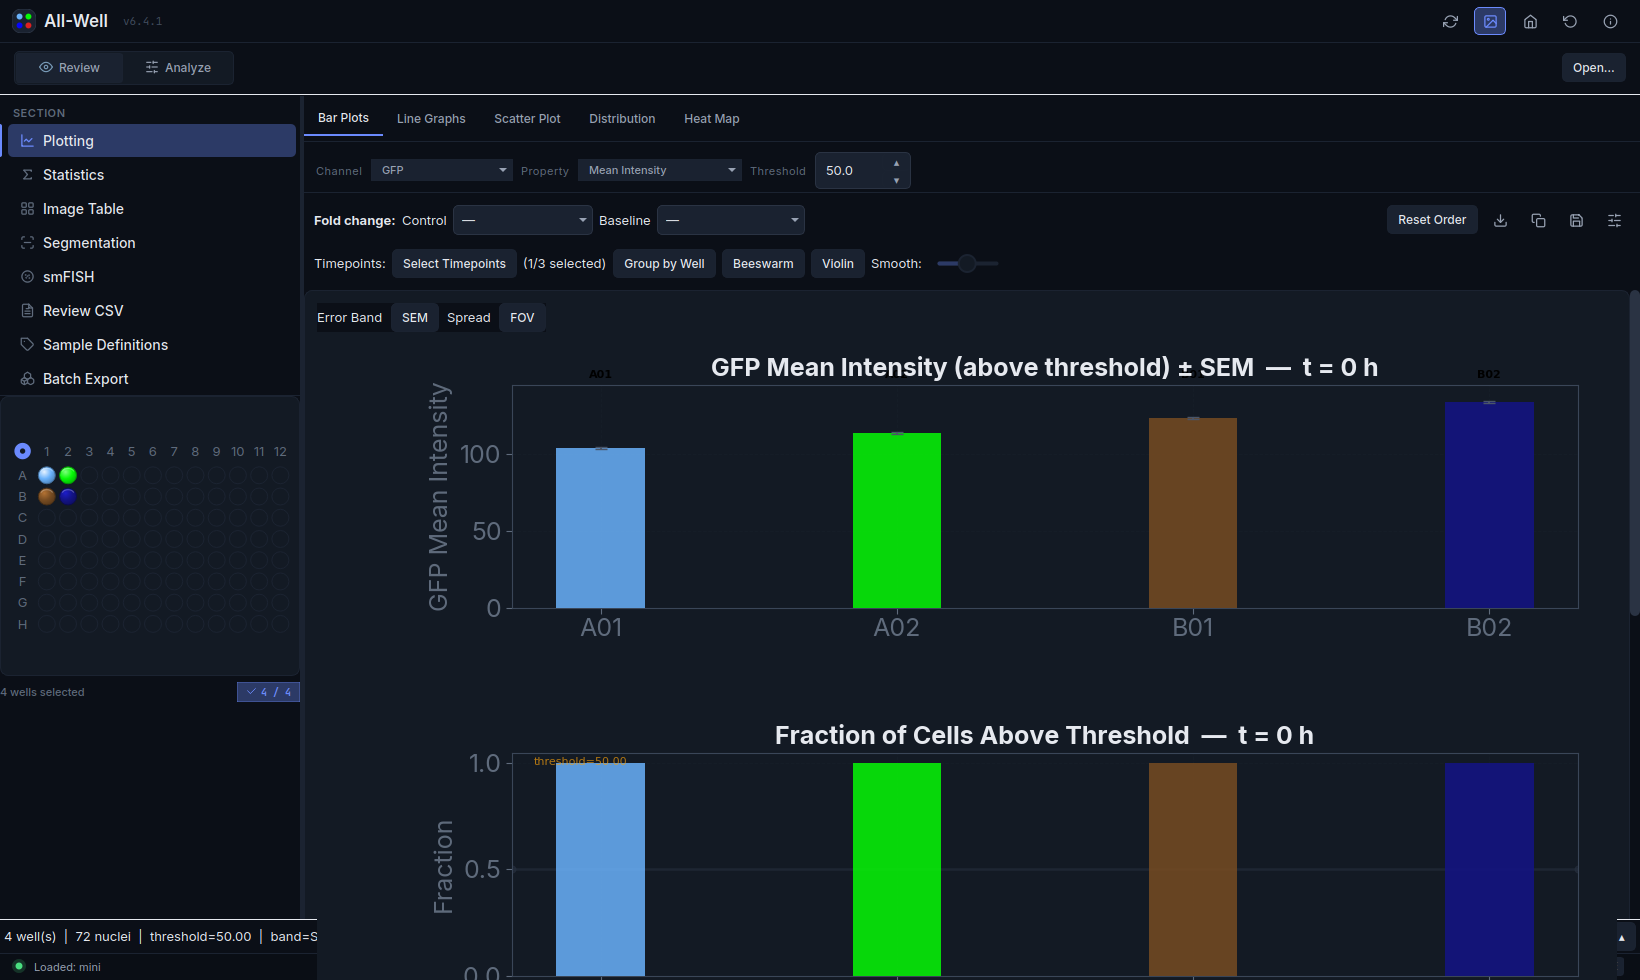
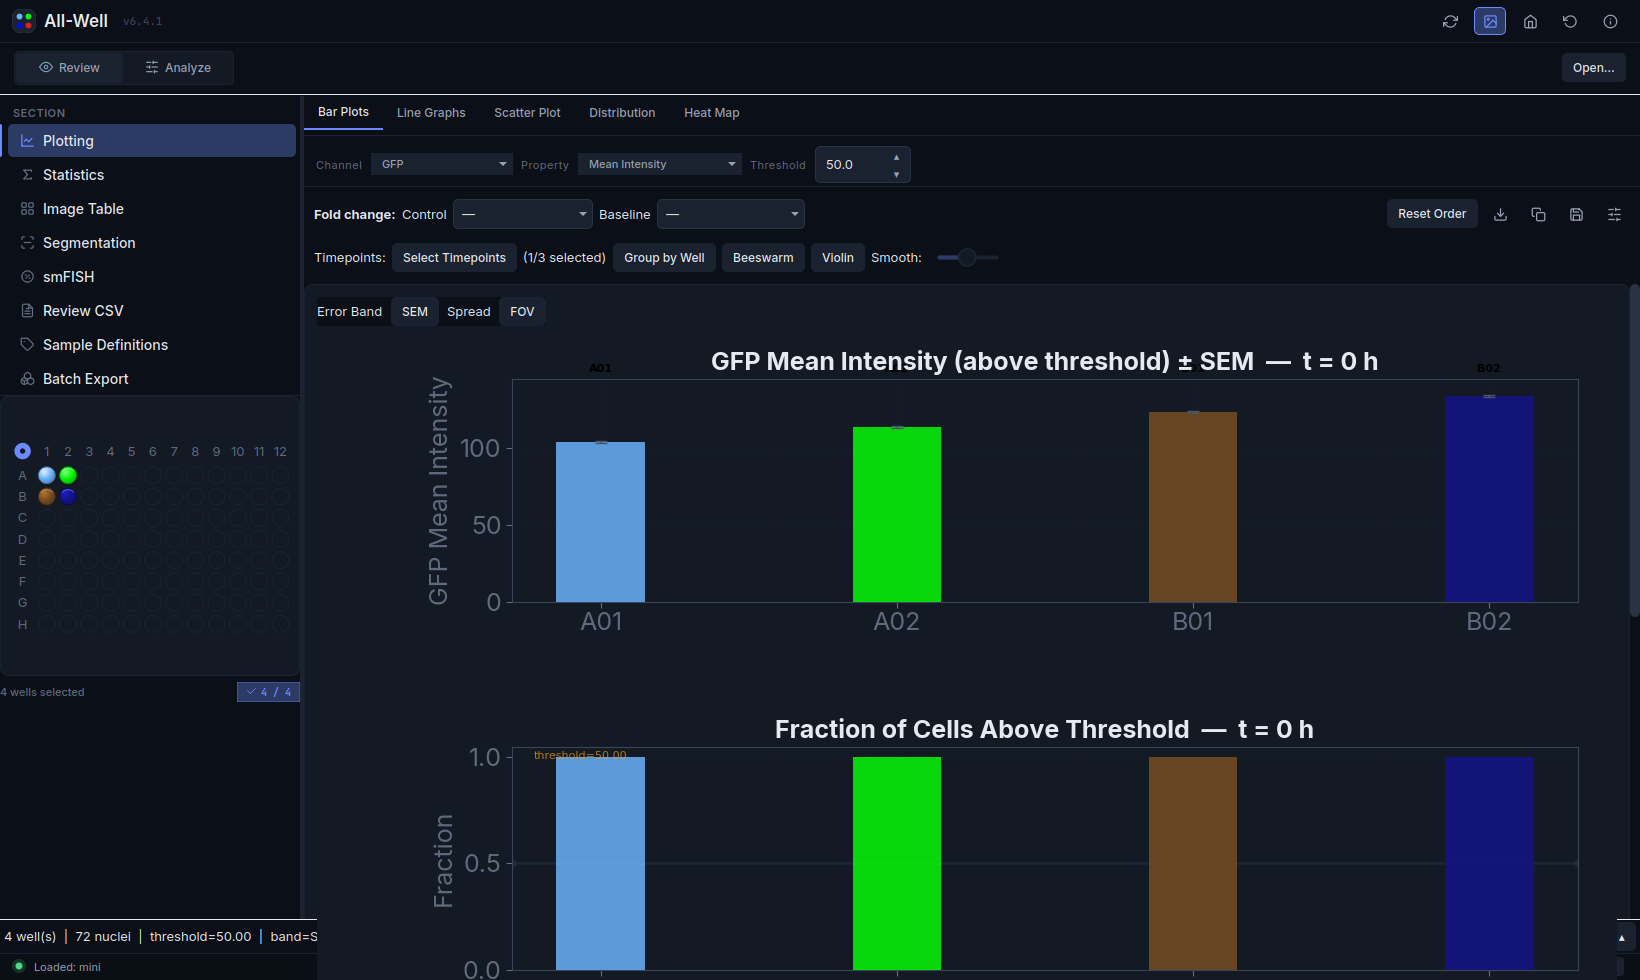
Tabs: normalise first-content top/left to a uniform 12px frame
Follow-up to the 12px inset: several tabs added extra internal padding on top of
the outer 12px (Statistics/smFISH/Review-CSV control strips carried 6-8px
top/left; Plotting's ctxbar added 6px top), so content started at different
heights. Zero those internal offsets so every flat tab's first control lands at
the same (12,12), and Plotting's sub-tab bar now matches Segmentation's exactly.
Remaining few-px differences are content-type (a thin description label, the
Image-Table selector card's own padding), not frame padding.

diff --git a/well_viewer/features/stats/view.py b/well_viewer/features/stats/view.py
@@ -133,7 +133,7 @@ def build_stats_results_panel(app, parent: QWidget) -> None:
     app._stats_ctrl = QWidget(parent)
     app._stats_ctrl.setObjectName("TabCtrl")  # data-gated until a dataset loads
     cl = QGridLayout(app._stats_ctrl)
-    cl.setContentsMargins(0, 6, 0, 6)
+    cl.setContentsMargins(0, 0, 0, 6)
 
     app._stats_test_label = QLabel("Test:", app._stats_ctrl)
     cl.addWidget(app._stats_test_label, 0, 0, Qt.AlignLeft)

diff --git a/well_viewer/core/centre_view.py b/well_viewer/core/centre_view.py
@@ -237,7 +237,7 @@ def build_centre(app, parent: QWidget) -> None:
             f"border-bottom: 1px solid {_C.border_subtle}; }}"
         )
         cbl = QHBoxLayout(ctxbar)
-        cbl.setContentsMargins(0, 6, 0, 6)
+        cbl.setContentsMargins(0, 0, 0, 6)
         cbl.setSpacing(_S.sm)
 
         # A standalone QTabBar with the SampleDefinitionsSubTabs object

diff --git a/well_viewer/features/review_image/csv_tab_view.py b/well_viewer/features/review_image/csv_tab_view.py
@@ -19,7 +19,7 @@ def build_review_csv_tab(ctx, parent: QWidget) -> None:
     ctrl = QWidget(parent)
     ctrl.setObjectName("TabCtrl")
     cl = QHBoxLayout(ctrl)
-    cl.setContentsMargins(8, 6, 8, 6)
+    cl.setContentsMargins(0, 0, 0, 6)
 
     cl.addWidget(QLabel("Well:", ctrl))
     ctx.app._review_well_lbl = QLabel("(select one well)", ctrl)

diff --git a/well_viewer/features/smfish/tab_view.py b/well_viewer/features/smfish/tab_view.py
@@ -123,7 +123,7 @@ def build_smfish_tab(ctx, parent: QWidget) -> None:
     ctrl = QWidget(parent)
     ctrl.setObjectName("TabCtrl")
     cl = QHBoxLayout(ctrl)
-    cl.setContentsMargins(0, 6, 0, 6)
+    cl.setContentsMargins(0, 0, 0, 6)
 
     cl.addWidget(QLabel("Channel:", ctrl))
     ctx.app._smfish_channel_cb = QComboBox(ctrl)
